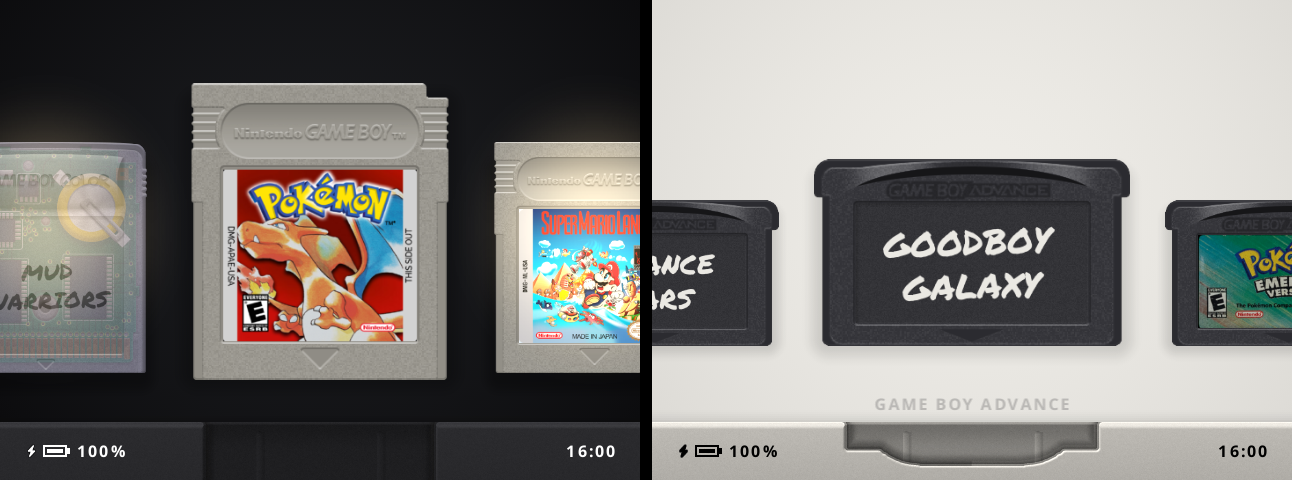
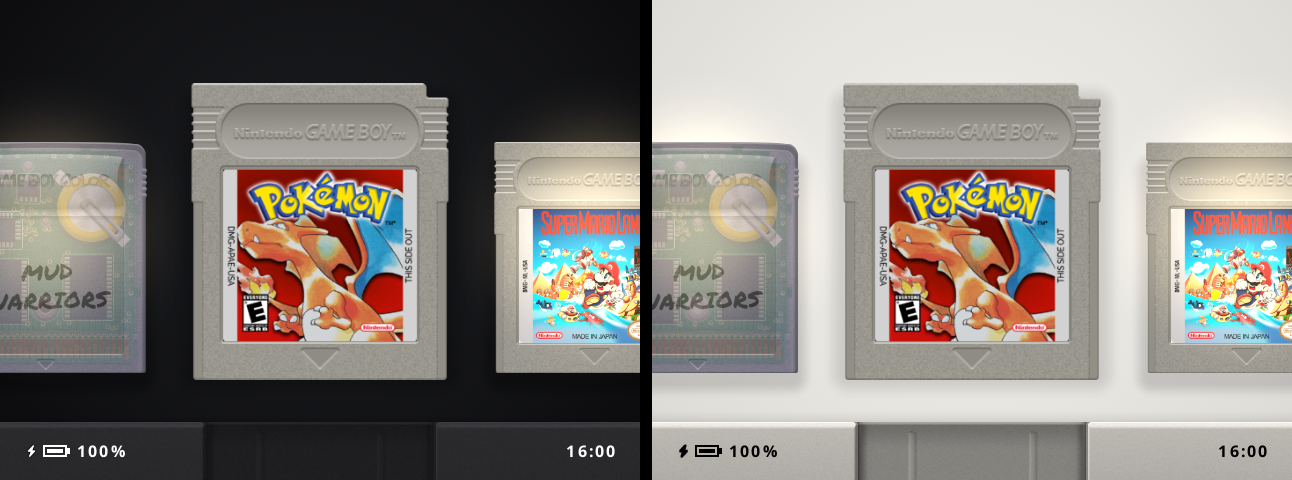
README: Favorites in both themes, no About section
Claude-Session: https://claude.ai/code/session_01HspWrybW4guRb45yc1TcJq

Changed region(s): [[0.4954, 0.1562, 1.0, 0.875], [0.6502, 0.875, 0.8669, 1.0]]

diff --git a/README.md b/README.md
@@ -42,7 +42,7 @@ A **Dark** and a **Light** housing, each with its own clean wallpaper. Game Boy 
 
 Press **Y** on any cart to make it a favorite. Favorites stand a little taller on their shelf under a soft, warm spotlight, and get a shelf of their own where the light stays put in the middle as you scroll through it. Prefer something quieter? Pick **Star** instead.
 
-<img src=".github/resources/gravy/favorites.png" width="100%" alt="The Favorites shelf in dark and the GBA shelf in light">
+<img src=".github/resources/gravy/favorites.png" width="100%" alt="The Favorites shelf in dark and light">
 
 ### Carts without label art
 
@@ -72,12 +72,6 @@ Every settings page lists its options on the left with the value on the right, f
 A **Buttons** page in the menu lists every shortcut, everywhere. Hold **POWER** for **Sleep**, **Restart** or **Power Off**.
 
 <img src=".github/resources/gravy/buttons_power.png" width="100%" alt="The Buttons page and the power menu">
-
-### About
-
-The back of an original Game Boy, with the credits moulded into the plastic and this build's serial on a silver sticker, stuck on a little crooked.
-
-<img src=".github/resources/gravy/about.png" width="100%" alt="The About page in dark and light">
 
 ### Play
 
